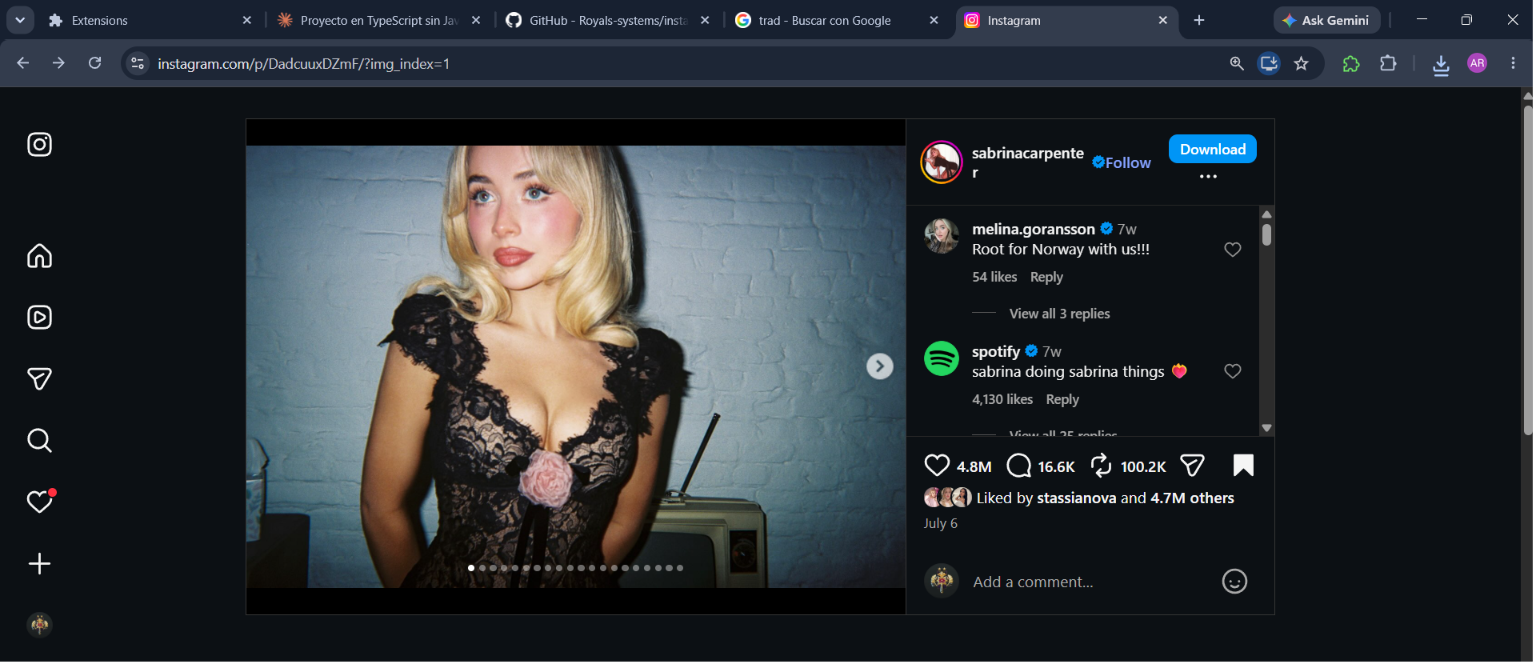
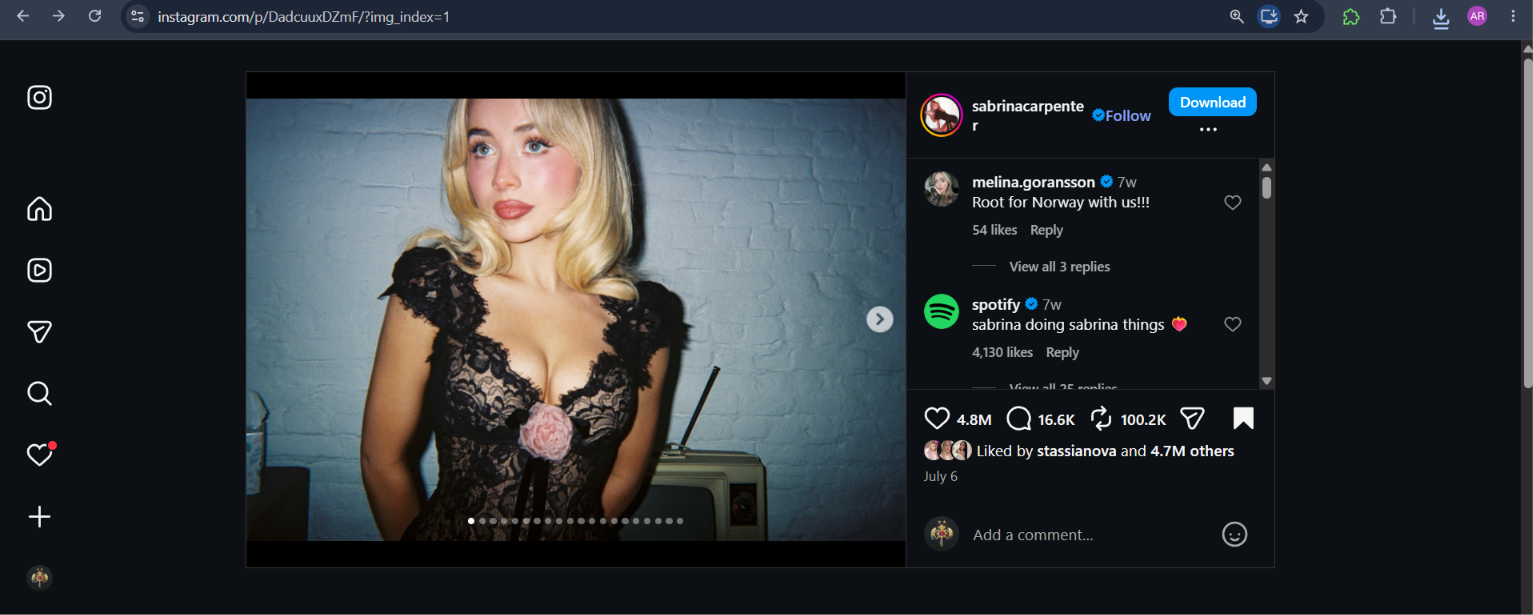
fixed reels

diff --git a/entrypoints/content.ts b/entrypoints/content.ts
@@ -88,8 +88,41 @@ export default defineContentScript({
       return extractMediaUrls(json);
     }
 
+    async function downloadSingleUrl(url: string, index: number) {
+      // El CDN de Instagram rechaza descargas directas sin el origen correcto,
+      // y las URLs blob: de video en Stories se invalidan apenas Instagram
+      // avanza a la siguiente story — por eso esto se llama de inmediato al
+      // capturar cada media, nunca en batch al final.
+      try {
+        const res = await fetch(url, { credentials: 'omit' });
+        if (!res.ok) throw new Error(`fetch failed: ${res.status}`);
+        const blob = await res.blob();
+        const isVideo = blob.type.includes('video') || url.includes('.mp4');
+        const ext = isVideo ? 'mp4' : 'jpg';
+
+        const reader = new FileReader();
+        const dataUrl: string = await new Promise((resolve, reject) => {
+          reader.onload = () => resolve(reader.result as string);
+          reader.onerror = reject;
+          reader.readAsDataURL(blob);
+        });
+
+        await browser.runtime.sendMessage({
+          type: 'DOWNLOAD_BLOB',
+          dataUrl,
+          filename: `instagram-post-${Date.now()}-${index + 1}.${ext}`,
+        });
+      } catch (err) {
+        console.error('[IG Downloader] Fallo al descargar', url, err);
+      }
+    }
+
     async function downloadUrls(urls: string[]) {
-      await browser.runtime.sendMessage({ type: 'DOWNLOAD_IMAGES', urls });
+      for (let i = 0; i < urls.length; i++) {
+        const url = urls[i];
+        if (!url) continue;
+        await downloadSingleUrl(url, i);
+      }
     }
 
 function createDownloadButton(onClick: () => Promise<void>, extraClass: string): HTMLButtonElement {
@@ -287,14 +320,19 @@ function injectFeedButton(article: HTMLElement) {
       return true;
     }
 
-    async function scanAllStories(): Promise<string[]> {
+    async function scanAllStories(): Promise<void> {
       const startUsername = getStoryUsernameFromUrl();
-      const results: string[] = [];
+      const seen = new Set<string>();
+      let downloadIndex = 0;
 
       for (let i = 0; i < 20; i++) {
         await sleep(300);
         const url = getCurrentStoryMediaUrl();
-        if (url && !results.includes(url)) results.push(url);
+        if (url && !seen.has(url)) {
+          seen.add(url);
+          await downloadSingleUrl(url, downloadIndex); // descarga ya, antes de que se invalide el blob
+          downloadIndex++;
+        }
 
         const clicked = clickNextStory();
         if (!clicked) break;
@@ -302,25 +340,38 @@ function injectFeedButton(article: HTMLElement) {
         await sleep(400);
         if (getStoryUsernameFromUrl() !== startUsername) break;
       }
-
-      return results;
     }
 
-function injectStoryButton() {
+// Mismo patrón que ensureFloatingButton: vive fuera del árbol de React,
+// así no depende de encontrar el ícono "..." (que cambia de aria-label según
+// la vista) ni se pierde si Instagram recicla nodos al pasar de story en story.
+let floatingStoryBtn: HTMLButtonElement | null = null;
+
+function ensureFloatingStoryButton() {
   if (!isStoryPage()) {
-    document.querySelector('.ig-downloader-btn-story')?.remove();
+    floatingStoryBtn?.remove();
+    floatingStoryBtn = null;
     return;
   }
-  if (document.querySelector('.ig-downloader-btn-story')) return;
 
-  const moreBtn = findMoreOptionsButton();
-  if (!moreBtn || !moreBtn.parentElement) return;
+  const currentUsername = getStoryUsernameFromUrl();
+
+  if (floatingStoryBtn && floatingStoryBtn.dataset.username === currentUsername) return;
+
+  floatingStoryBtn?.remove();
 
   const btn = createDownloadButton(async () => {
-    const urls = await scanAllStories();
-    await downloadUrls(urls);
+    await scanAllStories();
   }, 'ig-downloader-btn-story');
-  moreBtn.parentElement.insertBefore(btn, moreBtn);
+
+  btn.dataset.username = currentUsername ?? '';
+  btn.style.position = 'fixed';
+  btn.style.top = '16px';
+  btn.style.right = '16px';
+  btn.style.zIndex = '999999';
+
+  document.body.appendChild(btn);
+  floatingStoryBtn = btn;
 }
 
     // ---------- Arranque ----------
@@ -330,7 +381,7 @@ function debouncedCheck() {
   if (debounceTimer) clearTimeout(debounceTimer);
   debounceTimer = setTimeout(() => {
     ensureFloatingButton();
-    injectStoryButton();
+    ensureFloatingStoryButton();
   }, 300);
 }
 
@@ -340,13 +391,13 @@ pageObserver.observe(document.body, { childList: true, subtree: false });
 
 setInterval(() => {
   ensureFloatingButton();
-  injectStoryButton();
+  ensureFloatingStoryButton();
   startFeedWatcher();
   ensureFeedButtons(); // red de seguridad para artículos que el IntersectionObserver no detectó
 }, 800);
 
     ensureFloatingButton();
-    injectStoryButton();
+    ensureFloatingStoryButton();
     startFeedWatcher();
 
     browser.runtime.onMessage.addListener((message, sender, sendResponse) => {

diff --git a/entrypoints/background.ts b/entrypoints/background.ts
@@ -2,13 +2,10 @@ export default defineBackground(() => {
   console.log('Hello background!', { id: browser.runtime.id });
 
   browser.runtime.onMessage.addListener((message, sender, sendResponse) => {
-    if (message.type === 'DOWNLOAD_IMAGES') {
-      const urls: string[] = message.urls;
-      urls.forEach((url, i) => {
-        browser.downloads.download({
-          url,
-          filename: `instagram-post-${Date.now()}-${i + 1}.jpg`,
-        });
+    if (message.type === 'DOWNLOAD_BLOB') {
+      browser.downloads.download({
+        url: message.dataUrl, // dataURL (base64), no una URL remota
+        filename: message.filename,
       });
       sendResponse({ success: true });
     }
